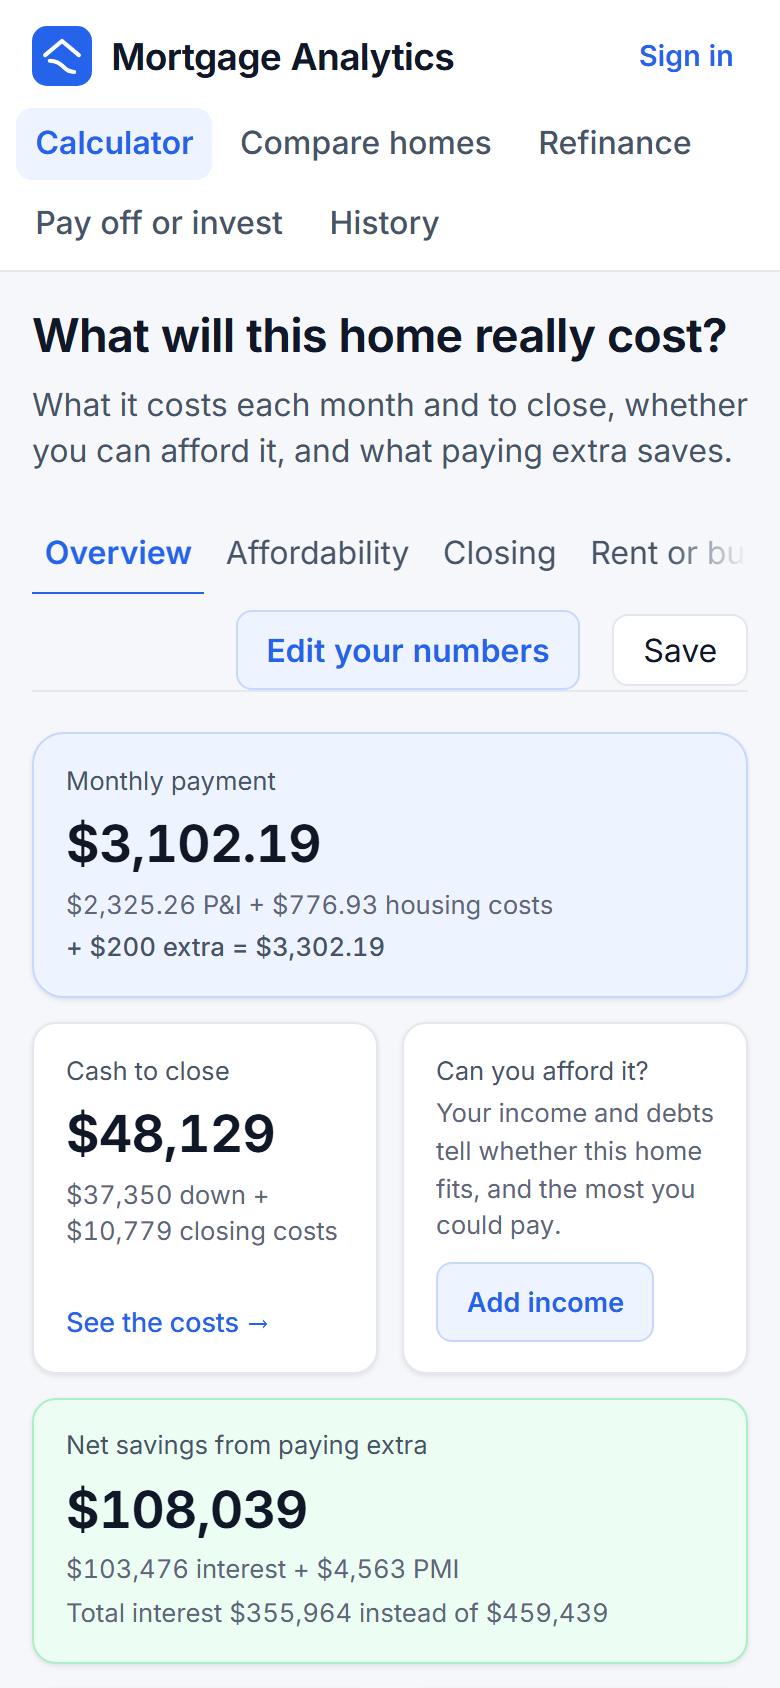
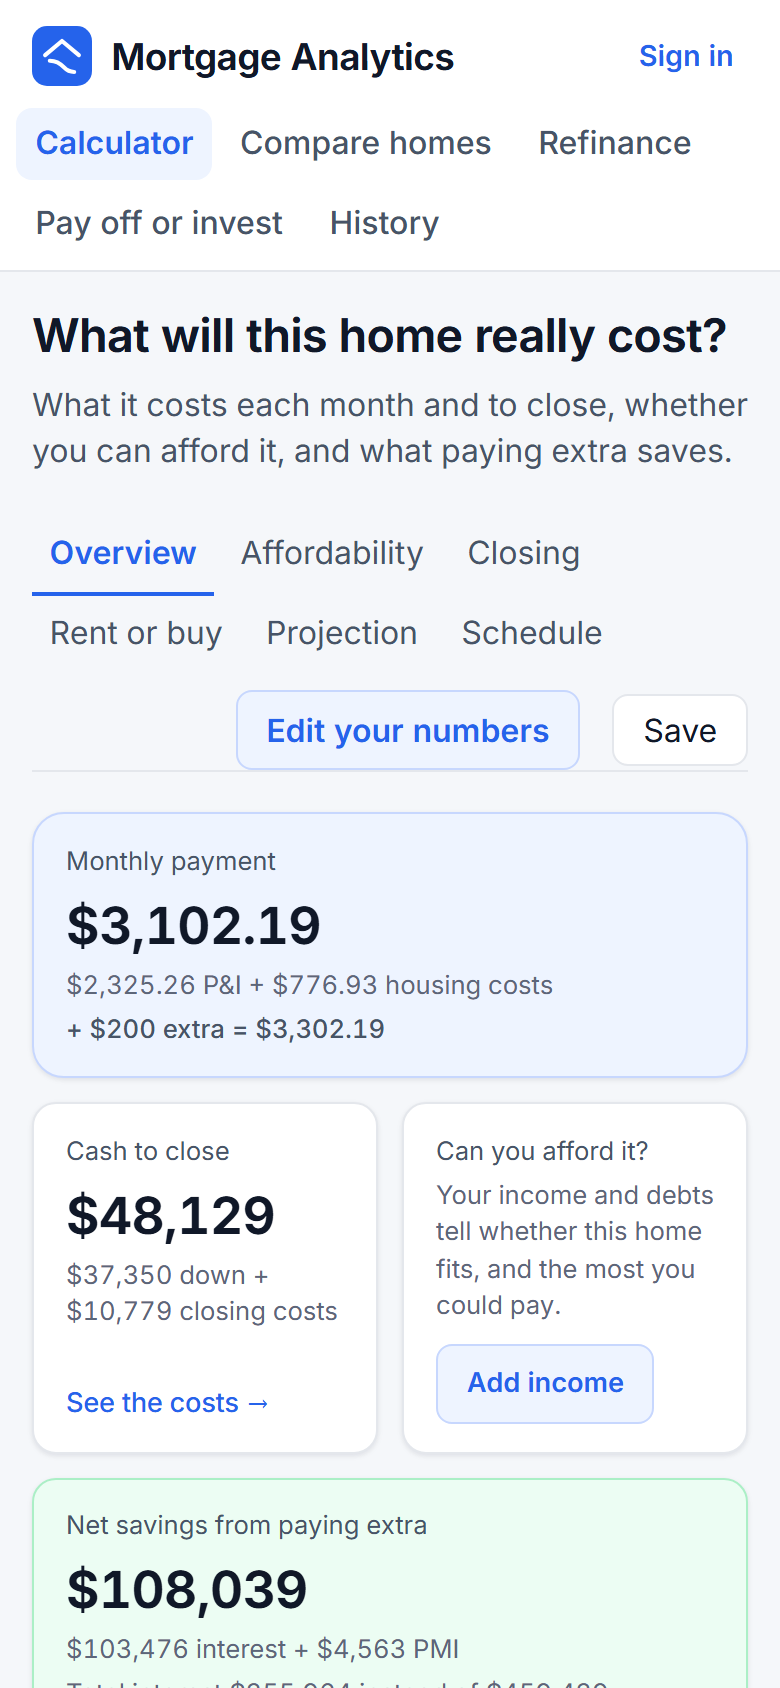
Walkthrough fixes: every tab in sight on a phone, and the shared-loan badge
From a walkthrough of every tab as a first-time buyer, on desktop and a phone:
- On a phone the six result tabs wrap onto a second row instead of scrolling: three of
  them were out of sight, and a tab out of sight is one nobody finds.
- The badge on the shared loan said "Used on all three pages"; Compare homes uses it
  too, so it now says "Shared with the other pages" on every form.

diff --git a/client/src/app/features/calculator/calculator-page.component.scss b/client/src/app/features/calculator/calculator-page.component.scss
@@ -10,8 +10,8 @@ router-outlet {
   gap: 0.25rem;
   // The tabs take the room before Save, which the header puts on the right.
   margin-right: auto;
-  // Scrolls sideways on a narrow phone. The tabs overlap the rule below by 1px, so without
-  // overflow-y: hidden the strip also gets a vertical scrollbar (tiny up/down arrows on Windows).
+  // Scrolls sideways if a screen is too narrow for the tabs (a phone wraps them instead, below). The tabs overlap the
+  // rule below by 1px, so without overflow-y: hidden the strip also gets a vertical scrollbar (tiny arrows on Windows).
   overflow-x: auto;
   overflow-y: hidden;
   @include scroll-hint.fade-edge;
@@ -43,10 +43,18 @@ router-outlet {
       border-radius: 6px 6px 0 0;
     }
 
-    // All four tabs fit a phone's width once their padding is tighter.
-    @media (max-width: 480px) {
-      padding-inline: 0.4rem;
+    @media (max-width: 600px) {
+      padding-inline: 0.55rem;
     }
+  }
+
+  // On a phone the six tabs wrap onto a second row rather than scroll: a tab out of sight is one nobody finds.
+  @media (max-width: 600px) {
+    flex-wrap: wrap;
+    row-gap: 0;
+    overflow: visible;
+    animation: none;
+    mask-image: none;
   }
 }
 

diff --git a/client/src/app/features/calculator/loan-form/loan-form.component.html b/client/src/app/features/calculator/loan-form/loan-form.component.html
@@ -1,7 +1,7 @@
 <form [formGroup]="form" (ngSubmit)="submit()" novalidate data-testid="loan-form">
   <!-- The five main inputs are always visible; everything else is under More details below. -->
   <fieldset class="primary-fields">
-    <legend class="title"><span data-testid="loan-heading">{{ heading() }}</span>@if (shared()) { <span class="shared-tag" data-testid="shared-tag">Used on all three pages</span>}</legend>
+    <legend class="title"><span data-testid="loan-heading">{{ heading() }}</span>@if (shared()) { <span class="shared-tag" data-testid="shared-tag">Shared with the other pages</span>}</legend>
     @if (example()) {
       <p class="example-note" data-testid="example-note"><strong>These are example numbers.</strong> Type your own: the results follow as you go.</p>
     }

diff --git a/client/src/app/features/strategy/strategy-form/strategy-form.component.spec.ts b/client/src/app/features/strategy/strategy-form/strategy-form.component.spec.ts
@@ -21,7 +21,7 @@ describe('StrategyFormComponent', () => {
   it('marks the mortgage as shared in its heading, and groups the household details under More details', () => {
     const root = render();
 
-    expect(text(root, 'shared-tag')).toBe('Used on all three pages');
+    expect(text(root, 'shared-tag')).toBe('Shared with the other pages');
     expect([...root.querySelectorAll('[data-testid="more-details"] details.section')].map((d) => d.getAttribute('data-testid')))
       .toEqual(['section-taxes', 'section-savings', 'section-stock', 'section-market']);
   });

diff --git a/client/src/app/features/refinance/refinance-form/refinance-form.component.html b/client/src/app/features/refinance/refinance-form/refinance-form.component.html
@@ -1,6 +1,6 @@
 <form [formGroup]="form" novalidate data-testid="refinance-form">
   <fieldset>
-    <legend class="title">Your loan today <span class="shared-tag" data-testid="shared-tag">Used on all three pages</span></legend>
+    <legend class="title">Your loan today <span class="shared-tag" data-testid="shared-tag">Shared with the other pages</span></legend>
     @if (example()) {
       <p class="example-note" data-testid="example-note"><strong>These are example numbers.</strong> Type your own: the results follow as you go.</p>
     }

diff --git a/client/src/app/features/strategy/strategy-form/strategy-form.component.html b/client/src/app/features/strategy/strategy-form/strategy-form.component.html
@@ -1,6 +1,6 @@
 <form [formGroup]="form" novalidate data-testid="strategy-form">
   <fieldset>
-    <legend class="title">Your mortgage <span class="shared-tag" data-testid="shared-tag">Used on all three pages</span></legend>
+    <legend class="title">Your mortgage <span class="shared-tag" data-testid="shared-tag">Shared with the other pages</span></legend>
     @if (example()) {
       <p class="example-note" data-testid="example-note"><strong>These are example numbers.</strong> Type your own: the results follow as you go.</p>
     }

diff --git a/client/src/app/features/refinance/refinance-form/refinance-form.component.spec.ts b/client/src/app/features/refinance/refinance-form/refinance-form.component.spec.ts
@@ -22,7 +22,7 @@ describe('RefinanceFormComponent', () => {
   it('marks the loan as shared in its heading, and says where it came from only when it was filled in', () => {
     create();
 
-    expect(el('shared-tag')?.textContent).toBe('Used on all three pages');
+    expect(el('shared-tag')?.textContent).toBe('Shared with the other pages');
     expect(el('loan-shared')).toBeNull();
   });
 

diff --git a/client/src/app/features/calculator/loan-form/loan-form.component.spec.ts b/client/src/app/features/calculator/loan-form/loan-form.component.spec.ts
@@ -35,7 +35,7 @@ describe('LoanFormComponent', () => {
     });
 
     it('marks the loan as shared in its heading, and says where it came from only when it was filled in', () => {
-      expect(text('shared-tag')).toBe('Used on all three pages');
+      expect(text('shared-tag')).toBe('Shared with the other pages');
       expect(el('loan-shared')).toBeNull();
     });
 

diff --git a/docs/05-frontend.md b/docs/05-frontend.md
@@ -137,7 +137,7 @@ Three details matter:
 
 ### One loan, typed once: `SharedLoanStore`
 
-`core/state/shared-loan.store.ts`. The three pages ask about the same mortgage, so its key facts are shared:
+`core/state/shared-loan.store.ts`. The pages ask about the same mortgage, so its key facts are shared:
 
 ```ts
 interface SharedLoan {
@@ -265,7 +265,7 @@ The flows are designed around the people using it:
   current one and clears both boxes once done. Deleting the account takes two
   deliberate steps, "Delete my account…" and then the password, and the button that deletes is red. A
   wrong password shows the server's own message; success unlinks the pages from the saves that went with it.
-- **The form card:** the main group's heading is a real heading, tagged "Used on all three pages" (the long "Filled in
+- **The form card:** the main group's heading is a real heading, tagged "Shared with the other pages" (the long "Filled in
   from your loan on the Refinance page" line only appears when it happened). What the numbers add up to is a summary
   chip; help only some need is a `details.help` toggle; the optional sections are one divided list under **More
   details**; each top-level group after the first starts below a rule. These styles are one global `form-card` mixin

diff --git a/docs/08-interview-guide.md b/docs/08-interview-guide.md
@@ -27,7 +27,7 @@
 2. **The interesting domain rules:** PMI comes off on the *original* schedule; recasts need *one* qualifying lump
    sum; Texas homestead exemptions apply per tax; ARMs reset within caps and stop at a margin floor; a refinance can
    lower the payment and still cost more.
-3. **Frontend:** results update as you type (debounce + `switchMap`), one loan is shared across the three pages,
+3. **Frontend:** results update as you type (debounce + `switchMap`), one loan is shared across the pages,
    and every form is driven by one rules table that mirrors the API.
 4. **Quality:** TDD, an 85% coverage gate, and conventions tests that use Roslyn to fail the build when a test
    breaks the team's assertion standards.
